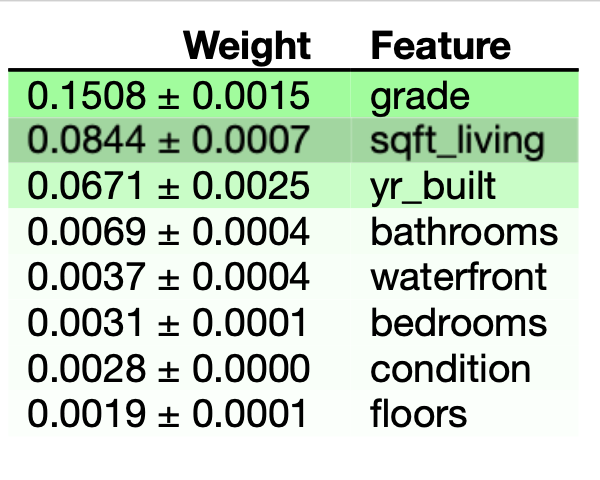
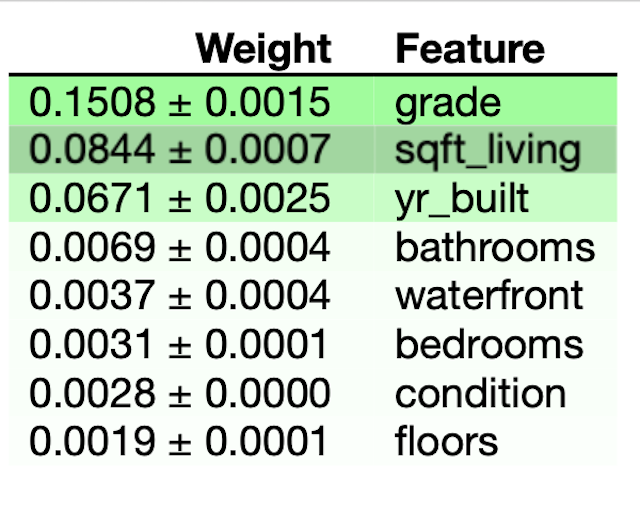
resized images

diff --git a/pages/explain.py b/pages/explain.py
@@ -19,10 +19,11 @@ column1 = dbc.Col(
 
             I will be doing a side by side comparison of the original model on the full data set, and the trimmed data set.
 
-
+            
+            <img src="/assets/feature_importances_full.png" alt="featurefull" width="200"/>
             """
         ),
-        html.Img(src='assets/feature_importances_full.jpg', className='img-fluid'),
+
     ],
     md=12,
 
